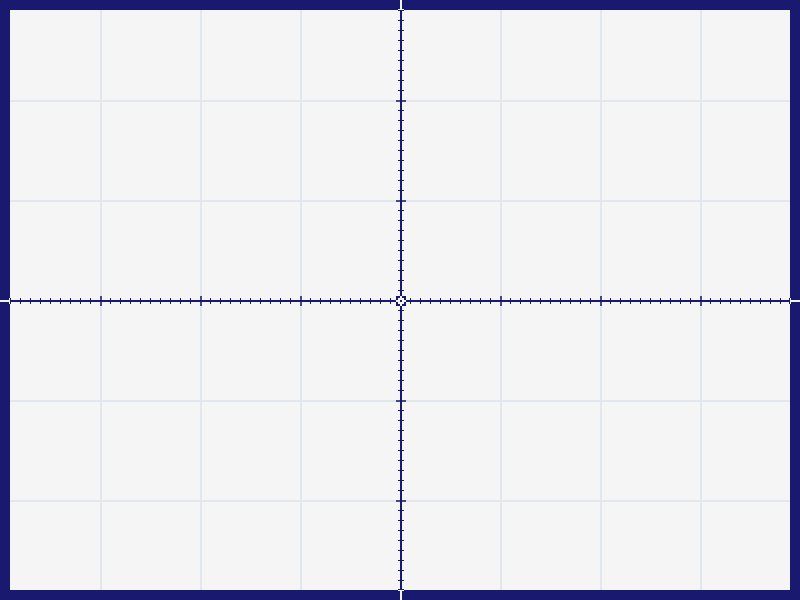
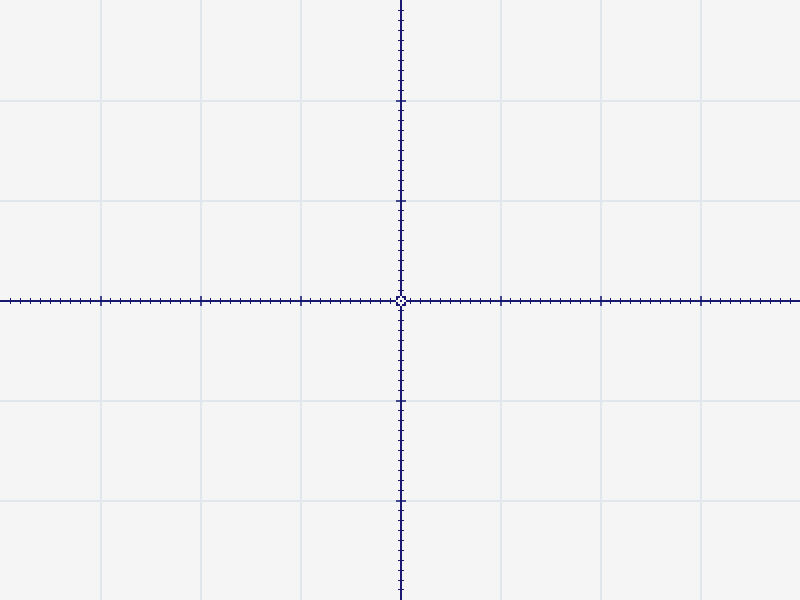
Added visual parallax net

Changed region(s): [[0.0, 0.0, 1.0, 1.0]]

diff --git a/src/com/ciderBrewers/core/States/GameState.java b/src/com/ciderBrewers/core/States/GameState.java
@@ -18,9 +18,11 @@ public class GameState extends BasicGameState {
 
     @Override
     public void init(GameContainer gameContainer, StateBasedGame stateBasedGame) {
-        ParallaxBackground bg1 = new ParallaxBackground(SpriteSheets.getInstance().DEBUG_BACKGROUND_DYNAMIC_1, 3);
-        ParallaxBackground bg2 = new ParallaxBackground(SpriteSheets.getInstance().DEBUG_BACKGROUND_DYNAMIC_2, 1);
-        ParallaxBackground bg3 = new ParallaxBackground(SpriteSheets.getInstance().DEBUG_BACKGROUND_DYNAMIC_3, 0.9f);
+        ParallaxBackground bg1 = new ParallaxBackground(SpriteSheets.getInstance().DEBUG_BACKGROUND_DYNAMIC_1, 4);
+        ParallaxBackground bg2 = new ParallaxBackground(SpriteSheets.getInstance().DEBUG_BACKGROUND_DYNAMIC_2, 3);
+        ParallaxBackground bg3 = new ParallaxBackground(SpriteSheets.getInstance().DEBUG_BACKGROUND_DYNAMIC_5, 1.1f);
+        ParallaxBackground bg4 = new ParallaxBackground(SpriteSheets.getInstance().DEBUG_BACKGROUND_DYNAMIC_4, 1);
+        ParallaxBackground bg5 = new ParallaxBackground(SpriteSheets.getInstance().DEBUG_BACKGROUND_DYNAMIC_3, 0.9f);
 
         Ball ball = new Ball(SpriteSheets.getInstance().FAT_SPRITE);
 
@@ -33,6 +35,8 @@ public class GameState extends BasicGameState {
         SharedData.getInstance().backgrounds.add(bg1);
         SharedData.getInstance().backgrounds.add(bg2);
         SharedData.getInstance().backgrounds.add(bg3);
+        SharedData.getInstance().backgrounds.add(bg4);
+        SharedData.getInstance().backgrounds.add(bg5);
 
         SharedData.getInstance().controllers.add(con1);
         SharedData.getInstance().controllers.add(con2);
@@ -47,11 +51,16 @@ public class GameState extends BasicGameState {
     public void render(GameContainer gameContainer, StateBasedGame stateBasedGame, Graphics graphics) {
         float[] parallaxOffset = SharedData.getInstance().parallaxTarget.getParallaxOffset();
 
-        for (ParallaxBackground object : SharedData.getInstance().backgrounds) object.draw(parallaxOffset);
+        for (ParallaxBackground object : SharedData.getInstance().backgrounds)
+            if (object.getDepth() >= 1) object.draw(parallaxOffset);
+
         for (GenericObject object : SharedData.getInstance().genericObjects) object.draw(parallaxOffset);
         for (PhysicsObject object : SharedData.getInstance().physicsObjects) object.draw(parallaxOffset);
         for (Player object : SharedData.getInstance().players) object.draw(parallaxOffset);
         for (Ball object : SharedData.getInstance().balls) object.draw(parallaxOffset);
+
+        for (ParallaxBackground object : SharedData.getInstance().backgrounds)
+            if (object.getDepth() < 1) object.draw(parallaxOffset);
     }
 
     @Override

diff --git a/src/com/ciderBrewers/core/Shared/SpriteSheets.java b/src/com/ciderBrewers/core/Shared/SpriteSheets.java
@@ -20,6 +20,8 @@ public class SpriteSheets {
     public SpriteSheet DEBUG_BACKGROUND_DYNAMIC_1;
     public SpriteSheet DEBUG_BACKGROUND_DYNAMIC_2;
     public SpriteSheet DEBUG_BACKGROUND_DYNAMIC_3;
+    public SpriteSheet DEBUG_BACKGROUND_DYNAMIC_4;
+    public SpriteSheet DEBUG_BACKGROUND_DYNAMIC_5;
 
     public SpriteSheet PLAYER_SPRITE;
     public SpriteSheet BALL_SPRITE;
@@ -36,6 +38,8 @@ public class SpriteSheets {
         DEBUG_BACKGROUND_DYNAMIC_1 = new SpriteSheet("data/spr/bg_debug_1.png", 800, 600);
         DEBUG_BACKGROUND_DYNAMIC_2 = new SpriteSheet("data/spr/bg_debug_2.png", 800, 600);
         DEBUG_BACKGROUND_DYNAMIC_3 = new SpriteSheet("data/spr/bg_debug_3.png", 800, 600);
+        DEBUG_BACKGROUND_DYNAMIC_4 = new SpriteSheet("data/spr/bg_debug_4.png", 800, 600);
+        DEBUG_BACKGROUND_DYNAMIC_5 = new SpriteSheet("data/spr/bg_debug_5.png", 800, 600);
 
         PLAYER_SPRITE = new SpriteSheet("data/spr/player1.png", 36, 123);
         BALL_SPRITE = new SpriteSheet("data/spr/ball.png", 32, 32);

diff --git a/src/com/ciderBrewers/core/Objects/ParallaxBackground.java b/src/com/ciderBrewers/core/Objects/ParallaxBackground.java
@@ -25,4 +25,20 @@ public class ParallaxBackground {
                 SharedData.SCREEN_HEIGHT + SharedData.PARALLAX_VALUE * 2
         );
     }
+
+    public Animation getSprite() {
+        return sprite;
+    }
+
+    public void setSprite(Animation sprite) {
+        this.sprite = sprite;
+    }
+
+    public float getDepth() {
+        return depth;
+    }
+
+    public void setDepth(float depth) {
+        this.depth = depth;
+    }
 }
